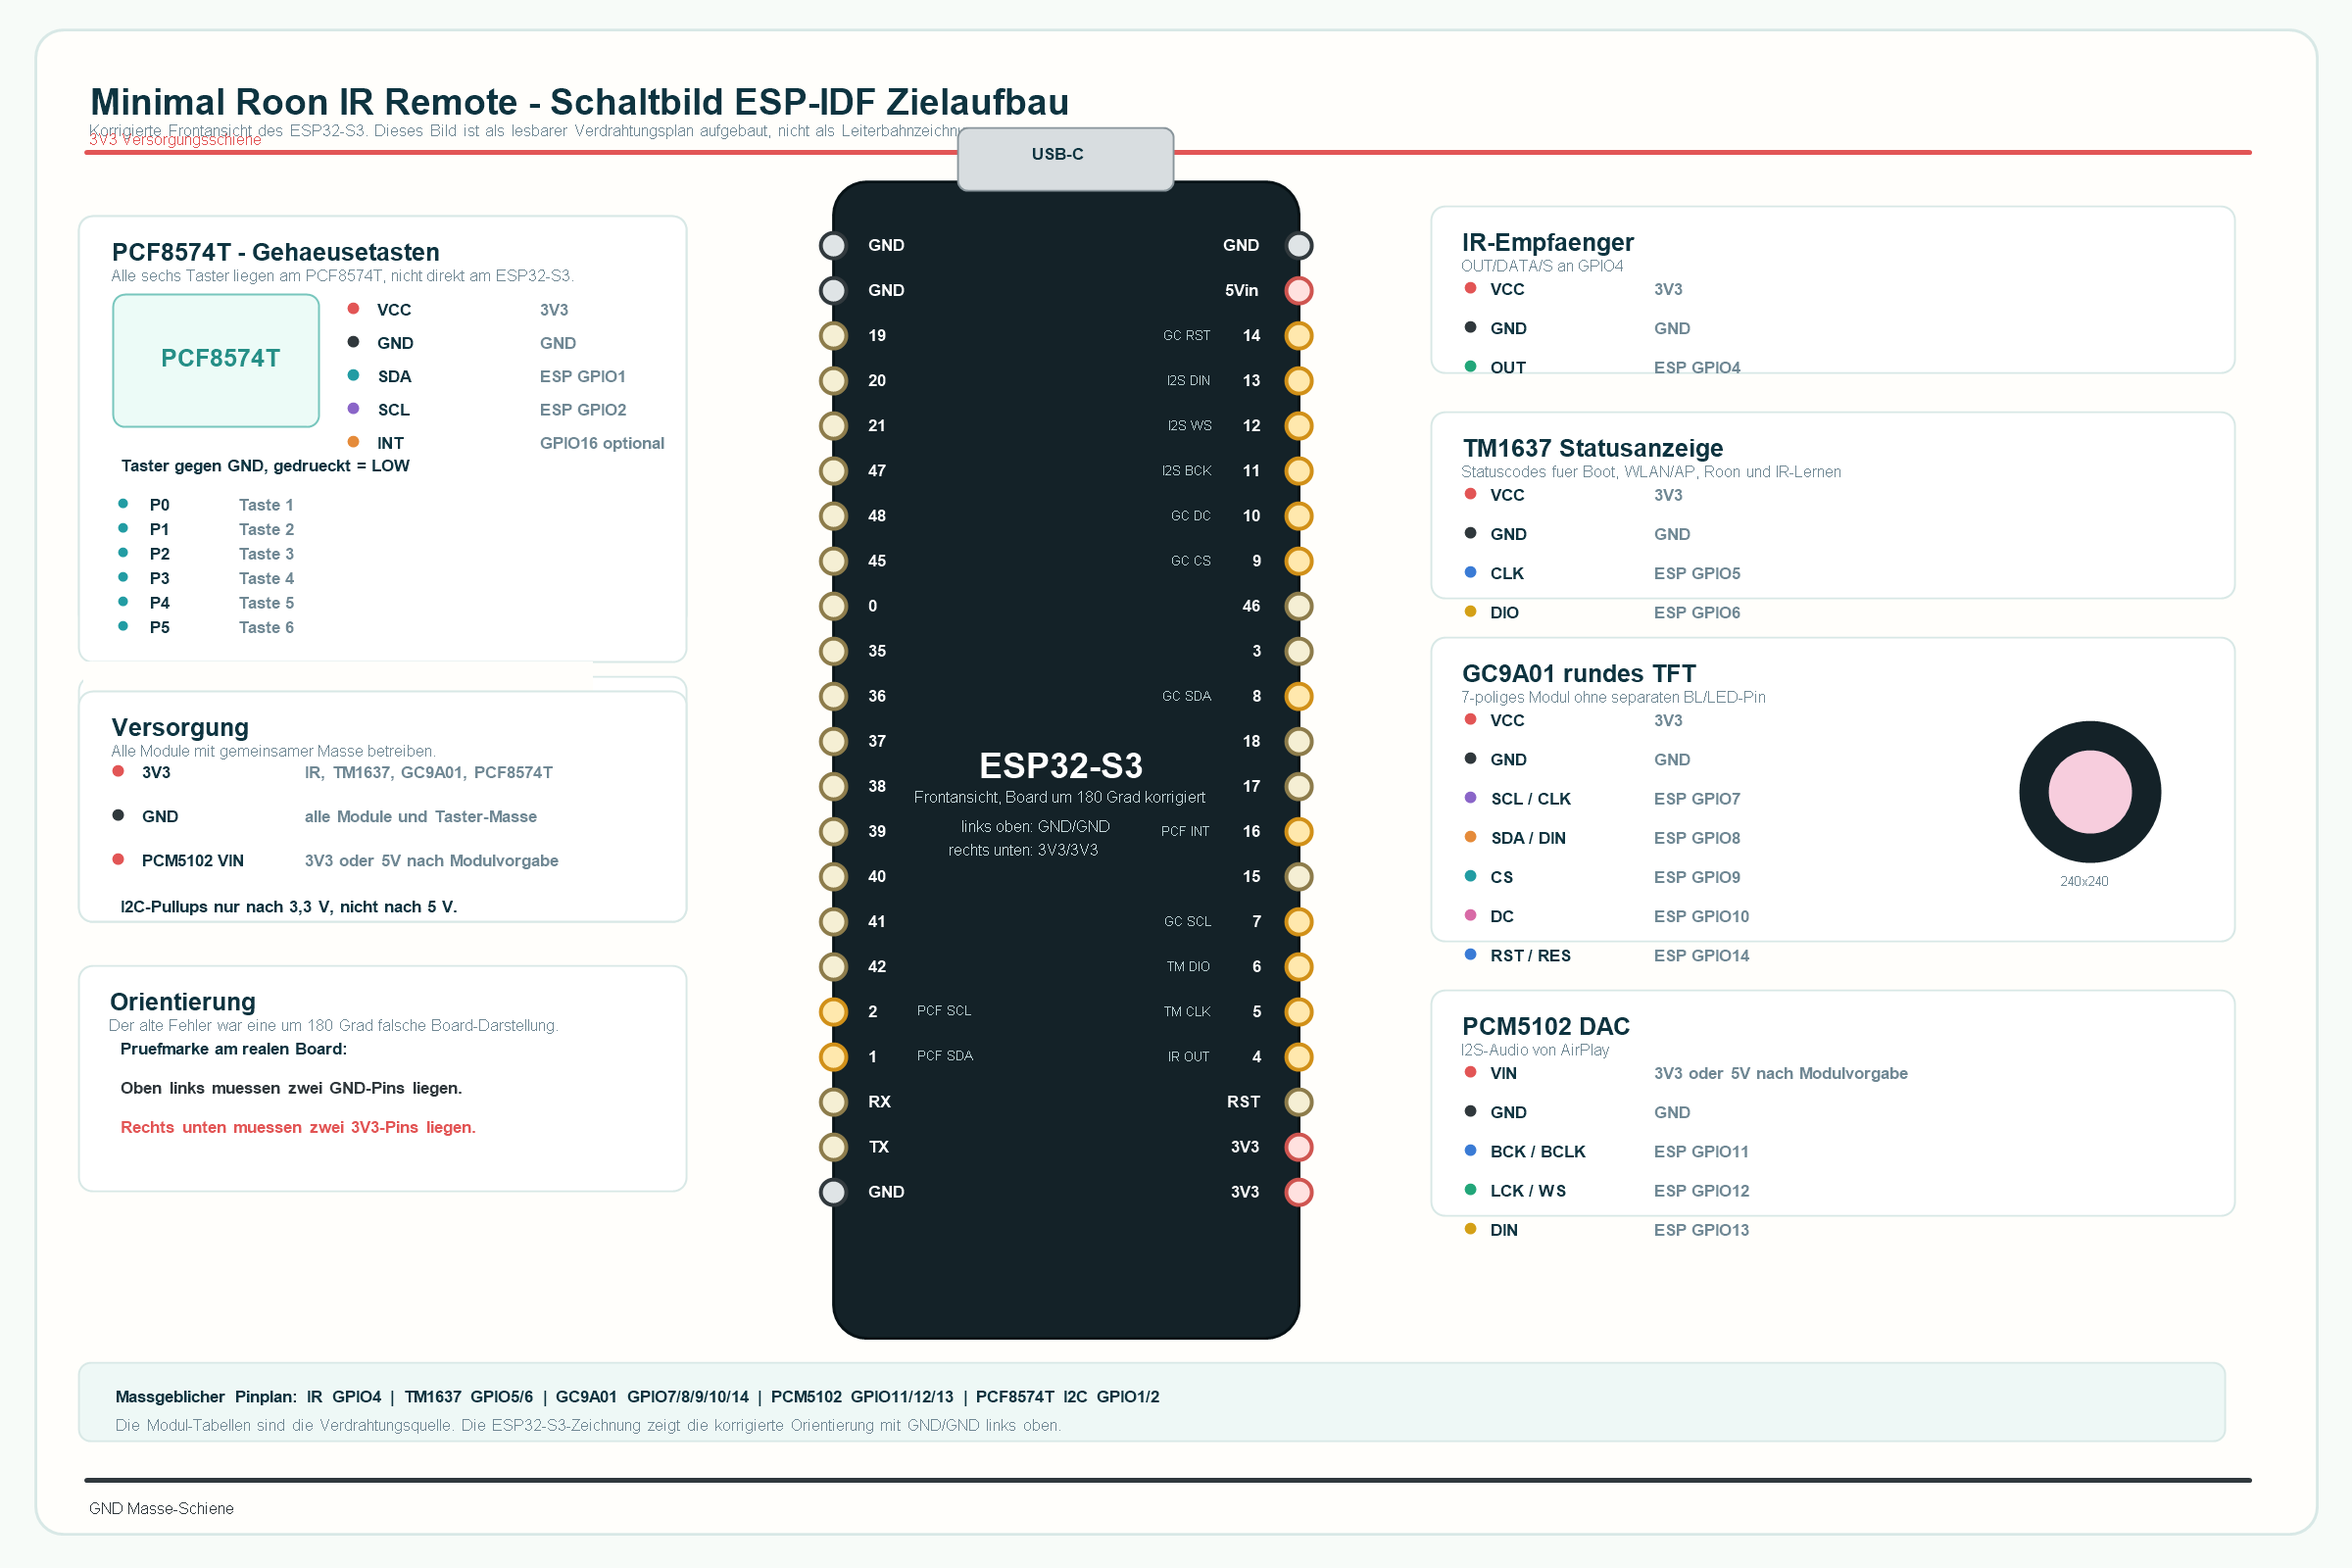
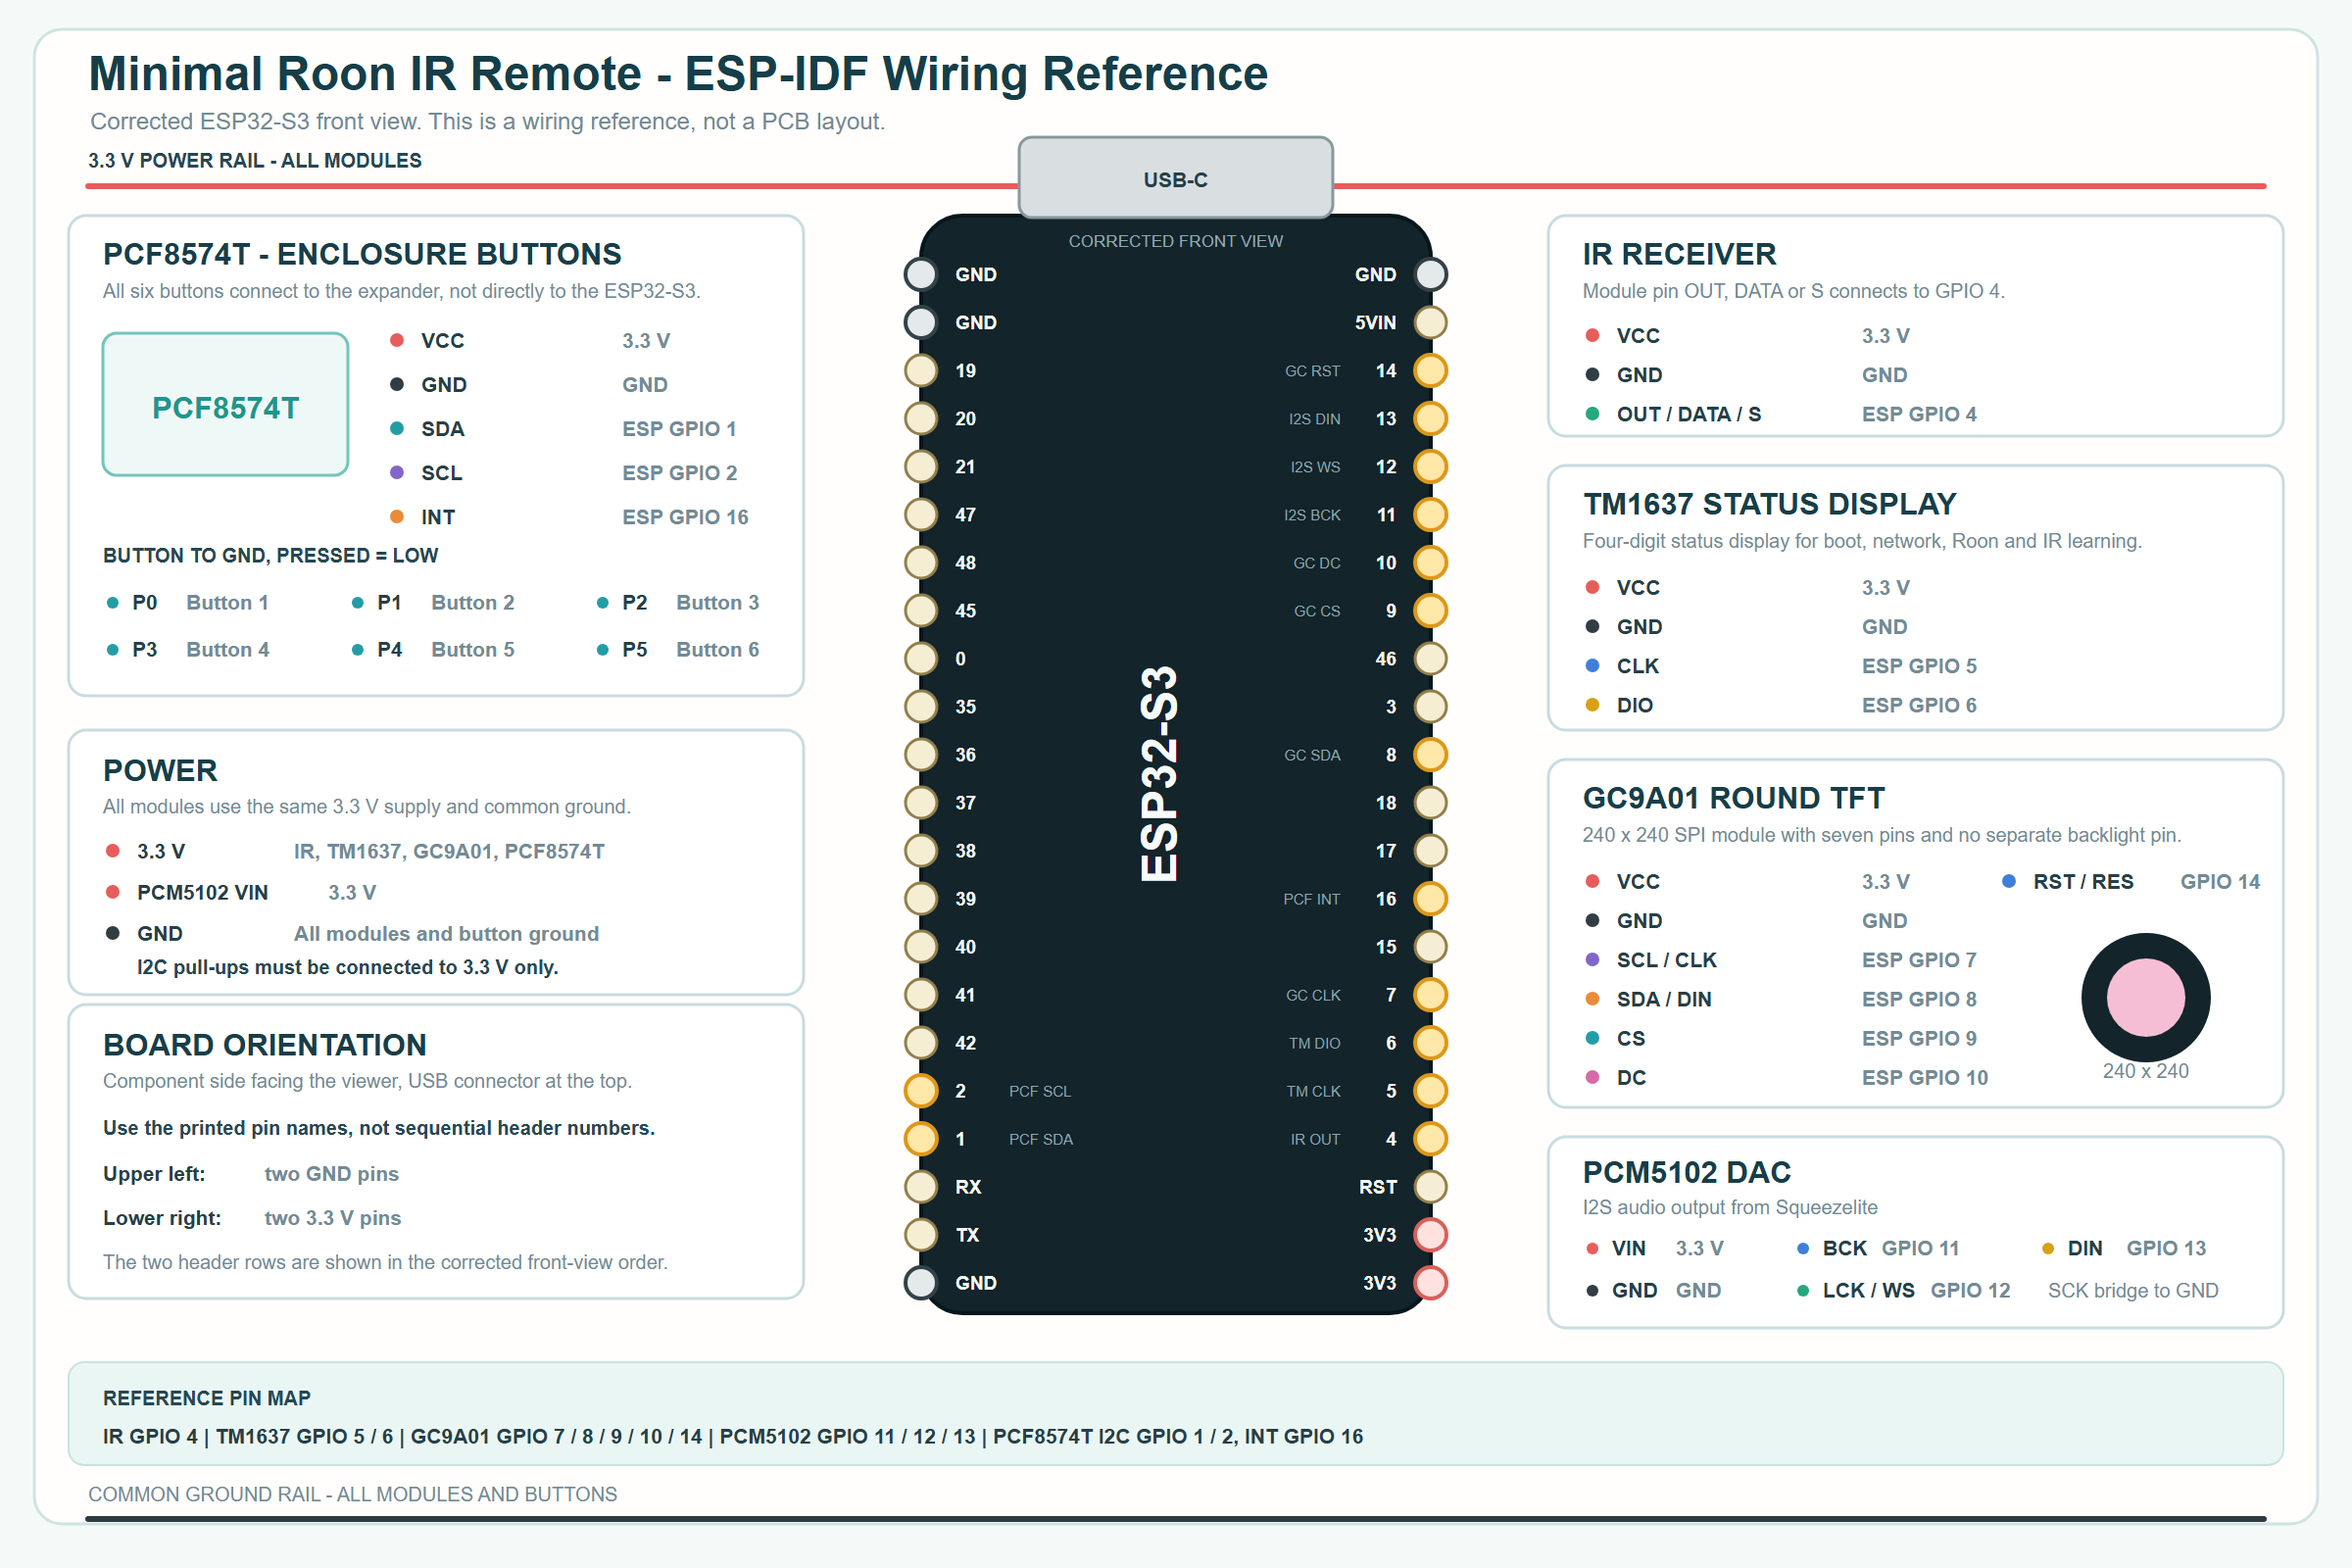
Replace wiring diagram with English vector version

diff --git a/hardware/README.md b/hardware/README.md
@@ -5,6 +5,9 @@ with 16 MB flash and 8 MB PSRAM.
 
 ![MRIRR wiring diagram](mrirr-wiring.png)
 
+The editable vector version is available as
+[mrirr-wiring.svg](mrirr-wiring.svg).
+
 ## Pin assignment
 
 | Function | ESP32-S3 pin | Module pin |
